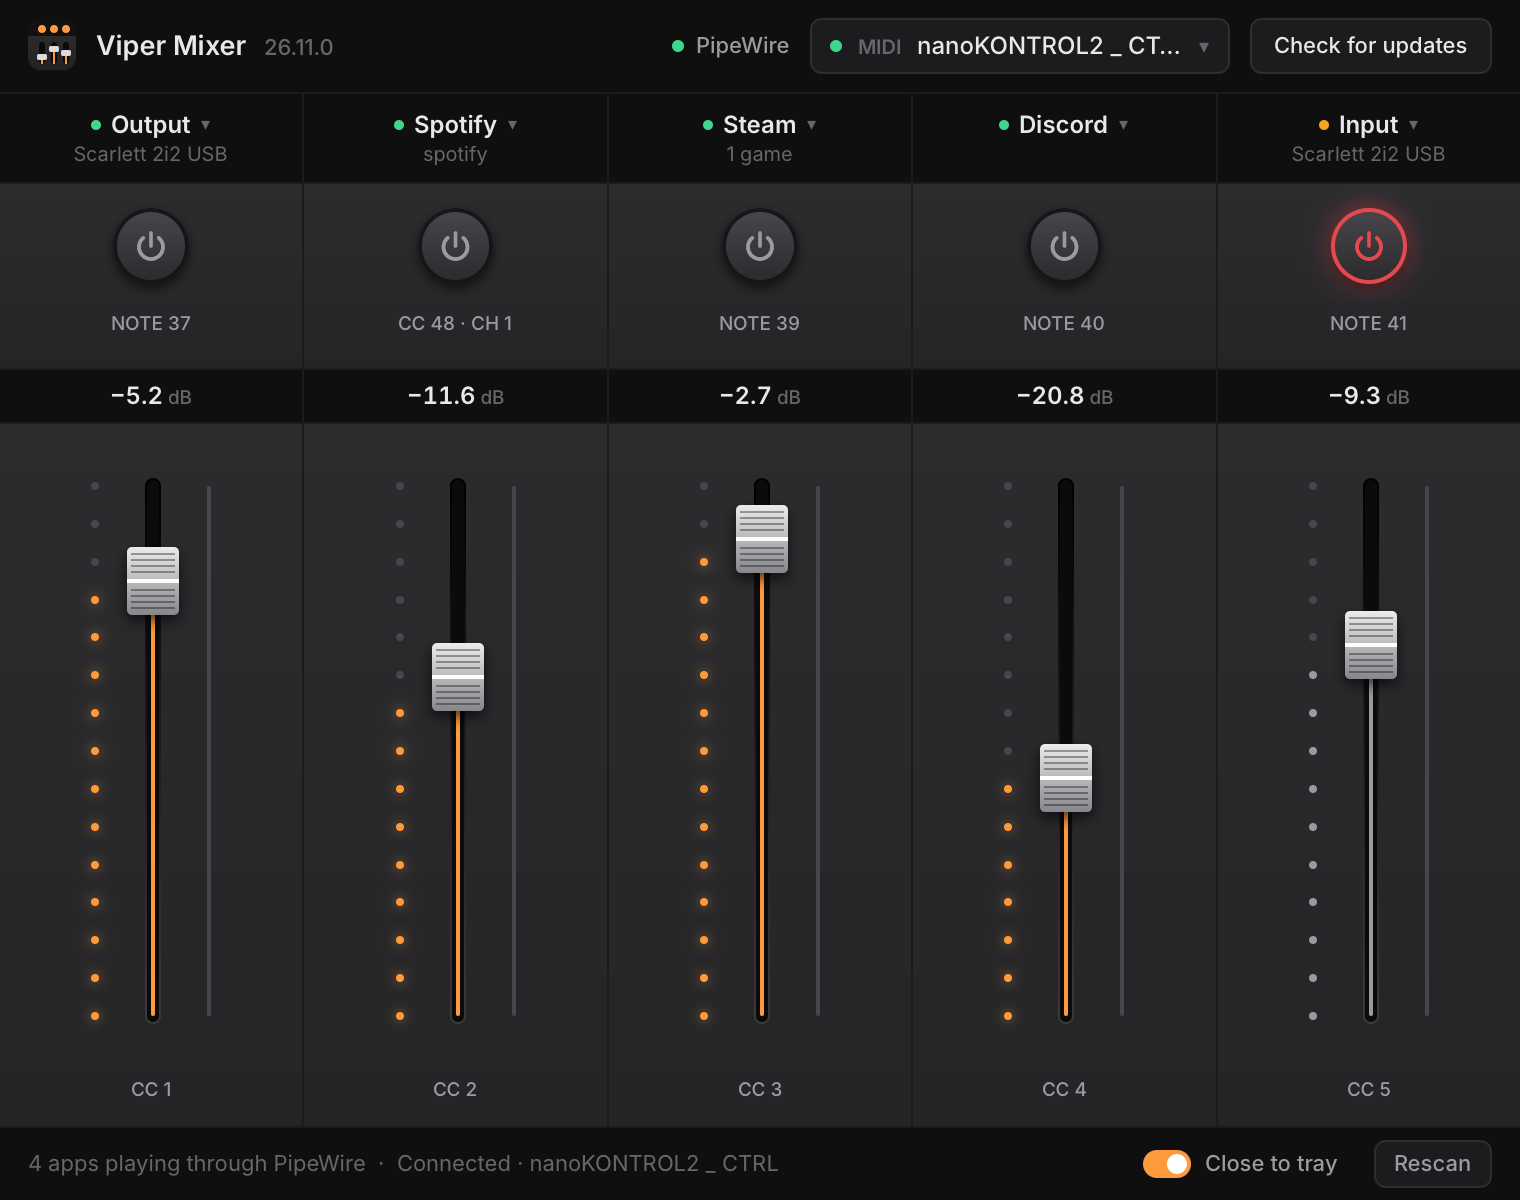
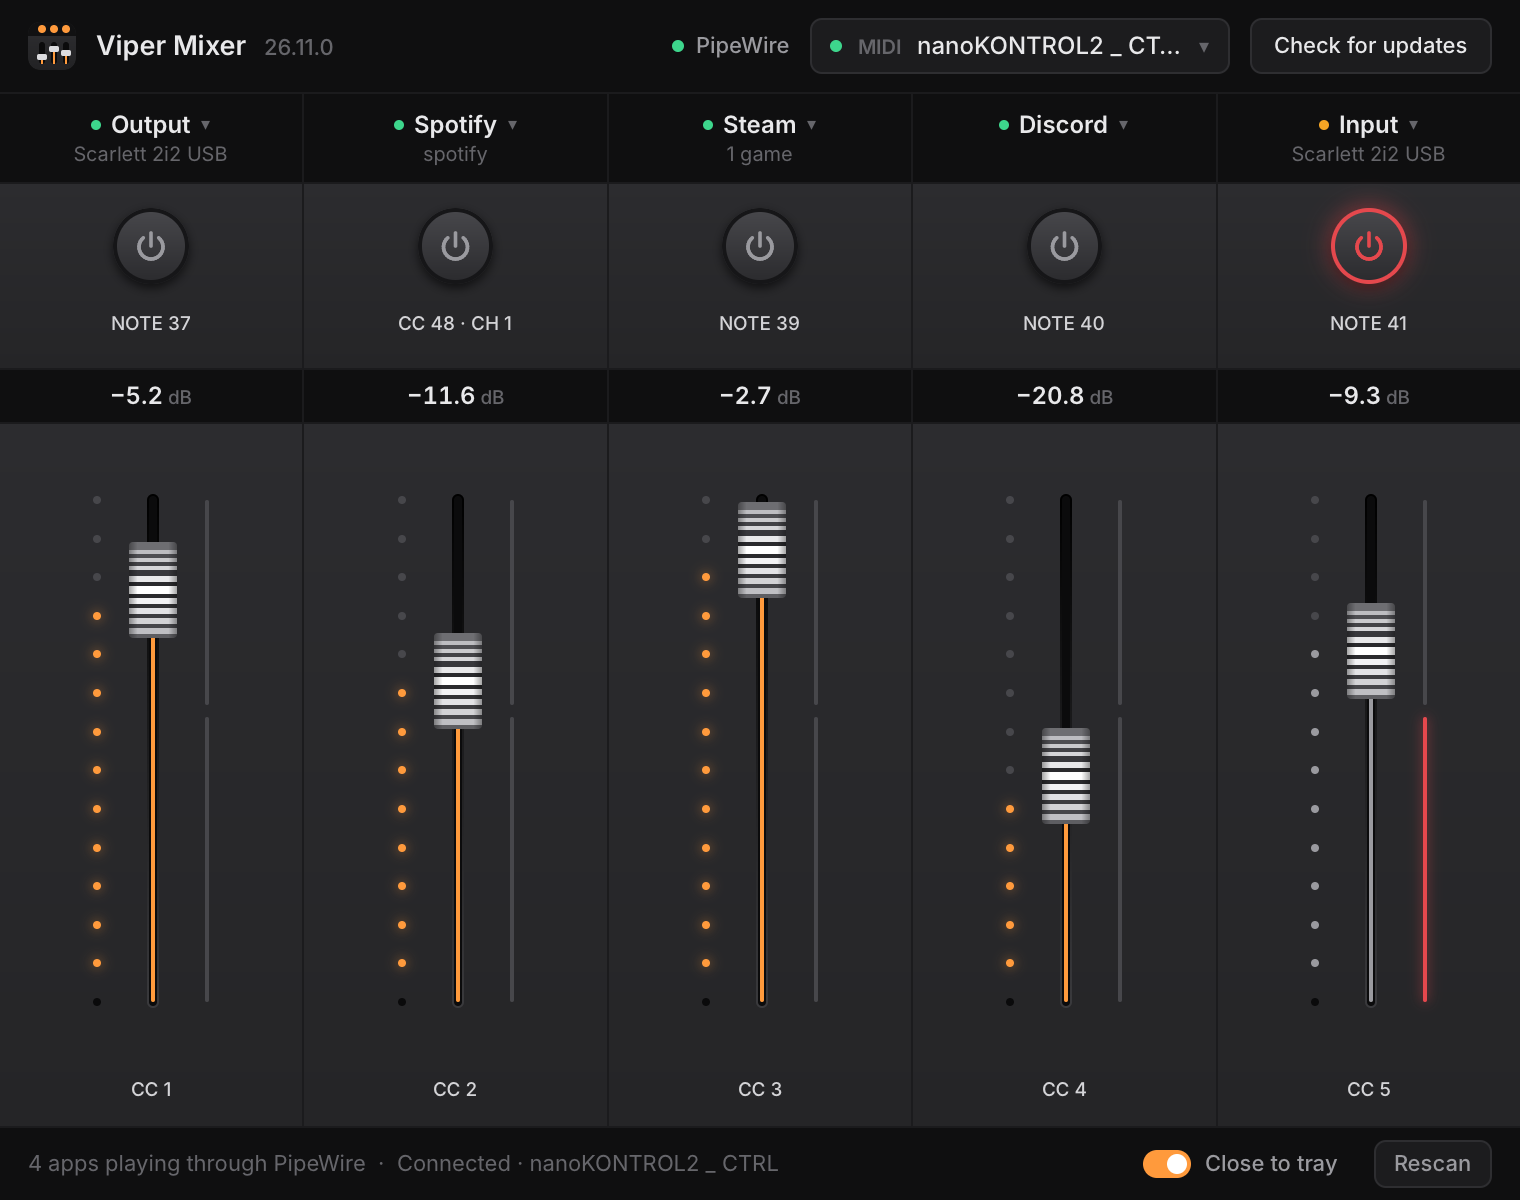
Give the faders chrome caps like a console
Changelog: none

diff --git a/src/ui.rs b/src/ui.rs
@@ -17,9 +17,9 @@ use std::time::{Duration, Instant};
 
 /// Space above and below the fader's travel.
 const FADER_PAD: f32 = 4.0;
-const HANDLE_W: f32 = 26.0;
-const HANDLE_H: f32 = 34.0;
-const GROOVE_W: f32 = 8.0;
+const HANDLE_W: f32 = 24.0;
+const HANDLE_H: f32 = 48.0;
+const GROOVE_W: f32 = 6.0;
 /// The level lights beside the fader: their size, and roughly how far apart they sit.
 const LED: f32 = 4.0;
 const LED_STEP: f32 = 18.0;
@@ -467,7 +467,8 @@ fn power_button(s: &Mixer, index: usize) -> El {
     if muted { button.box_shadow(glow(red.alpha(0.55), 12.0)) } else { button }
 }
 
-/// The lights beside a fader, lit from the bottom up to its level; a muted strip's are grey.
+/// The lights beside a fader, lit from the bottom up to its level; a muted strip's are grey. The
+/// bottom one marks silence and stays dark.
 fn level_lights(volume: f32, height: f32, muted: bool) -> El {
     let (top, bottom, at) = (handle_y(1.0, height), handle_y(0.0, height), handle_y(volume, height));
     let count = (((bottom - top) / LED_STEP) as usize + 1).clamp(4, 16);
@@ -475,8 +476,10 @@ fn level_lights(volume: f32, height: f32, muted: bool) -> El {
     let mut lights = el().key("lights").w(LED).h_full().a11y_hidden();
     for step in 0..count {
         let y = top + (bottom - top) * step as f32 / (count - 1) as f32;
-        let on = volume > 0.0 && y >= at - 0.5;
-        let mut light = el().size(LED, LED).radius(LED / 2.0).absolute(0.0, y - LED / 2.0).fill(if on { lit } else { c(LED_OFF) });
+        let floor = step == count - 1;
+        let on = !floor && volume > 0.0 && y >= at - 0.5;
+        let off = if floor { c("#0A0A0B") } else { c(LED_OFF) };
+        let mut light = el().size(LED, LED).radius(LED / 2.0).absolute(0.0, y - LED / 2.0).fill(if on { lit } else { off });
         if on && !muted {
             light = light.box_shadow(glow(lit.alpha(0.7), 6.0));
         }
@@ -485,23 +488,50 @@ fn level_lights(volume: f32, height: f32, muted: bool) -> El {
     lights
 }
 
-/// A fader cap: a ribbed metal block with a bright line across its middle.
+/// The bands of a fader cap from top to bottom, as (height, colour): chrome ribs that brighten
+/// towards the white line across the middle, the way light catches a console fader. They add up
+/// to `HANDLE_H`.
+const CAP_BANDS: [(f32, &str); 19] = [
+    (4.0, "#6E6E72"),
+    (2.0, "#BDBDC1"),
+    (2.0, "#4E4E52"),
+    (2.0, "#CACACD"),
+    (2.0, "#434347"),
+    (2.0, "#D6D6D9"),
+    (3.0, "#38383C"),
+    (3.0, "#E8E8EA"),
+    (2.0, "#2A2A2D"),
+    (4.0, "#FFFFFF"),
+    (2.0, "#2A2A2D"),
+    (3.0, "#F2F2F4"),
+    (2.0, "#323235"),
+    (3.0, "#E2E2E5"),
+    (2.0, "#3C3C40"),
+    (3.0, "#D2D2D5"),
+    (2.0, "#46464A"),
+    (3.0, "#BFBFC3"),
+    (2.0, "#5E5E62"),
+];
+
+/// A fader cap: a block of chrome bands with a white line across its middle.
 fn cap(y: f32) -> El {
     let mut cap = el()
         .key("handle")
         .size(HANDLE_W, HANDLE_H)
         .absolute(0.0, y - HANDLE_H / 2.0)
-        .radius(2.5)
-        .gradient(c("#ECECEE"), c("#86868B"))
-        .shadow(3.0, 7.0, Color::BLACK.alpha(0.65));
-    let middle = HANDLE_H / 2.0;
-    for rib in 1..11 {
-        let at = rib as f32 * 3.0;
-        if (at - middle).abs() > 2.5 {
-            cap = cap.child(el().size(HANDLE_W - 4.0, 1.0).absolute(2.0, at).fill(Color::BLACK.alpha(0.35)));
-        }
+        .radius(2.0)
+        .clip_rounded(2.0)
+        .shadow(4.0, 8.0, Color::BLACK.alpha(0.7));
+    let mut at = 0.0;
+    for (height, color) in CAP_BANDS {
+        cap = cap.child(el().size(HANDLE_W, height).absolute(0.0, at).fill(c(color)));
+        at += height;
     }
-    cap.child(el().size(HANDLE_W, 2.0).absolute(0.0, middle - 1.0).fill(Color::WHITE))
+    // Darker sides round the block off.
+    cap.child(el().size(HANDLE_W, HANDLE_H).absolute(0.0, 0.0).linear_gradient(
+        std::f32::consts::FRAC_PI_2,
+        [(0.0, Color::BLACK.alpha(0.35)), (0.18, Color::TRANSPARENT), (0.82, Color::TRANSPARENT), (1.0, Color::BLACK.alpha(0.35))],
+    ))
 }
 
 fn fader(s: &Mixer, index: usize, height: f32) -> El {
@@ -527,11 +557,18 @@ fn fader(s: &Mixer, index: usize, height: f32) -> El {
         .child(el().key("fill").size(2.0, (bottom - y).max(0.0)).absolute((HANDLE_W - 2.0) / 2.0, y).radius(1.0).fill(if muted { c(DIM) } else { accent }))
         .child(cap(y))
         .a11y_hidden();
-    // The thin line on the right lights while the controller moves the strip.
-    let mut signal = el().size(2.0, (bottom - top).max(0.0)).absolute(0.0, top).radius(1.0).fill(if lit { accent } else { c(LED_OFF) });
-    if lit {
-        signal = signal.box_shadow(glow(accent.alpha(0.7), 6.0));
-    }
+    // The thin line on the right, in two segments: both light while the controller moves the
+    // strip, and the lower one glows red while it's muted.
+    let split = top + (bottom - top) * 0.42;
+    let segment = |from: f32, to: f32, color: Option<Color>| {
+        let line = el().size(2.0, (to - from).max(0.0)).absolute(0.0, from).radius(1.0).fill(color.unwrap_or(c(LED_OFF)));
+        match color {
+            Some(color) => line.box_shadow(glow(color.alpha(0.7), 6.0)),
+            None => line,
+        }
+    };
+    let upper = segment(top, split - 3.0, lit.then_some(accent));
+    let lower = segment(split + 3.0, bottom, if muted { Some(c(RED)) } else { lit.then_some(accent) });
     // The whole width takes the drag, not just the handle.
     row()
         .key(format!("fader-{index}"))
@@ -567,7 +604,7 @@ fn fader(s: &Mixer, index: usize, height: f32) -> El {
         })
         .child(level_lights(volume, height, muted))
         .child(track)
-        .child(el().key("signal").w(2.0).h_full().child(signal).a11y_hidden())
+        .child(el().key("signal").w(2.0).h_full().child(upper).child(lower).a11y_hidden())
 }
 
 /// The control a strip's mute or fader learned, under the power button or the fader. A press
@@ -581,7 +618,7 @@ fn binding_chip(s: &Mixer, index: usize, mute: bool) -> El {
         ("Listening…".to_owned(), accent)
     } else {
         match bound {
-            Some(control) => (control.label(), c(DIM)),
+            Some(control) => (control.label(), c("#D4D4D7")),
             None => ("Learn".to_owned(), c(FAINT)),
         }
     };
@@ -871,5 +908,12 @@ mod tests {
     fn the_handle_spans_the_fader() {
         assert_eq!(handle_y(1.0, 300.0), FADER_PAD + HANDLE_H / 2.0);
         assert_eq!(handle_y(0.0, 300.0), 300.0 - FADER_PAD - HANDLE_H / 2.0);
+    }
+
+    #[test]
+    fn the_cap_bands_fill_the_cap_and_centre_its_line() {
+        assert_eq!(CAP_BANDS.iter().map(|(height, _)| height).sum::<f32>(), HANDLE_H);
+        let above: f32 = CAP_BANDS.iter().take_while(|(_, color)| *color != "#FFFFFF").map(|(height, _)| height).sum();
+        assert_eq!(above + 2.0, HANDLE_H / 2.0);
     }
 }

diff --git a/README.md b/README.md
@@ -38,8 +38,8 @@ cargo run --release
   the fader. Press one, then move a fader or press a button on the controller to bind it, by
   channel. Right-click one to unbind it. A control bound to one strip comes off any other. Out of
   the box, faders are CC 1–5 and mutes are notes 37–41 on any channel.
-- **Power buttons.** Pressing a strip's power button mutes it: the button glows red and the
-  strip's lights turn grey. A mute on the controller follows its switch: down mutes, up unmutes.
+- **Power buttons.** Pressing a strip's power button mutes it: the button and the line beside
+  its fader glow red, and its lights turn grey. A mute on the controller follows its switch: down mutes, up unmutes.
 - **Hardware that comes and goes.** The controller is remembered by name without ALSA's port
   numbers, so it reconnects after you unplug it, plug it into another USB port, or reboot.
   Automatic picks the first hardware input and skips MIDI Through and virtual ports. Strips on
